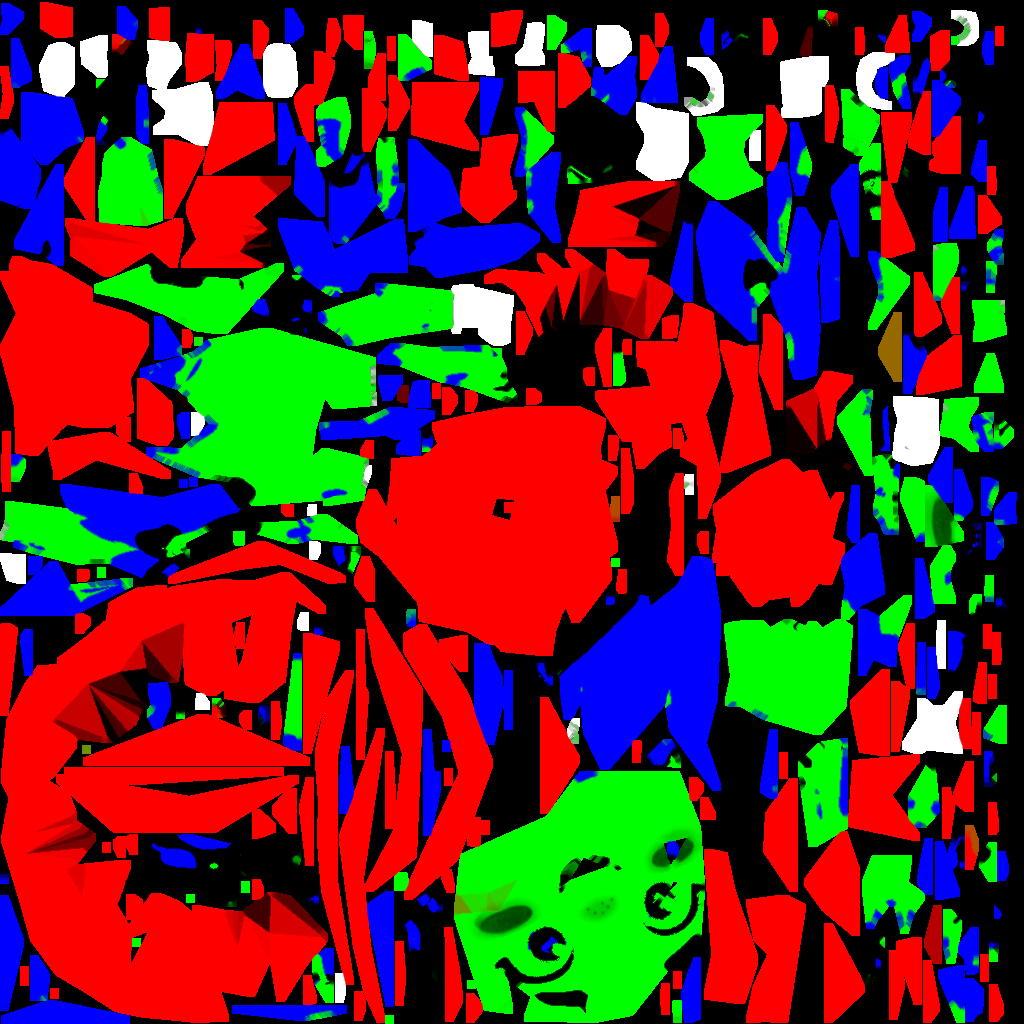
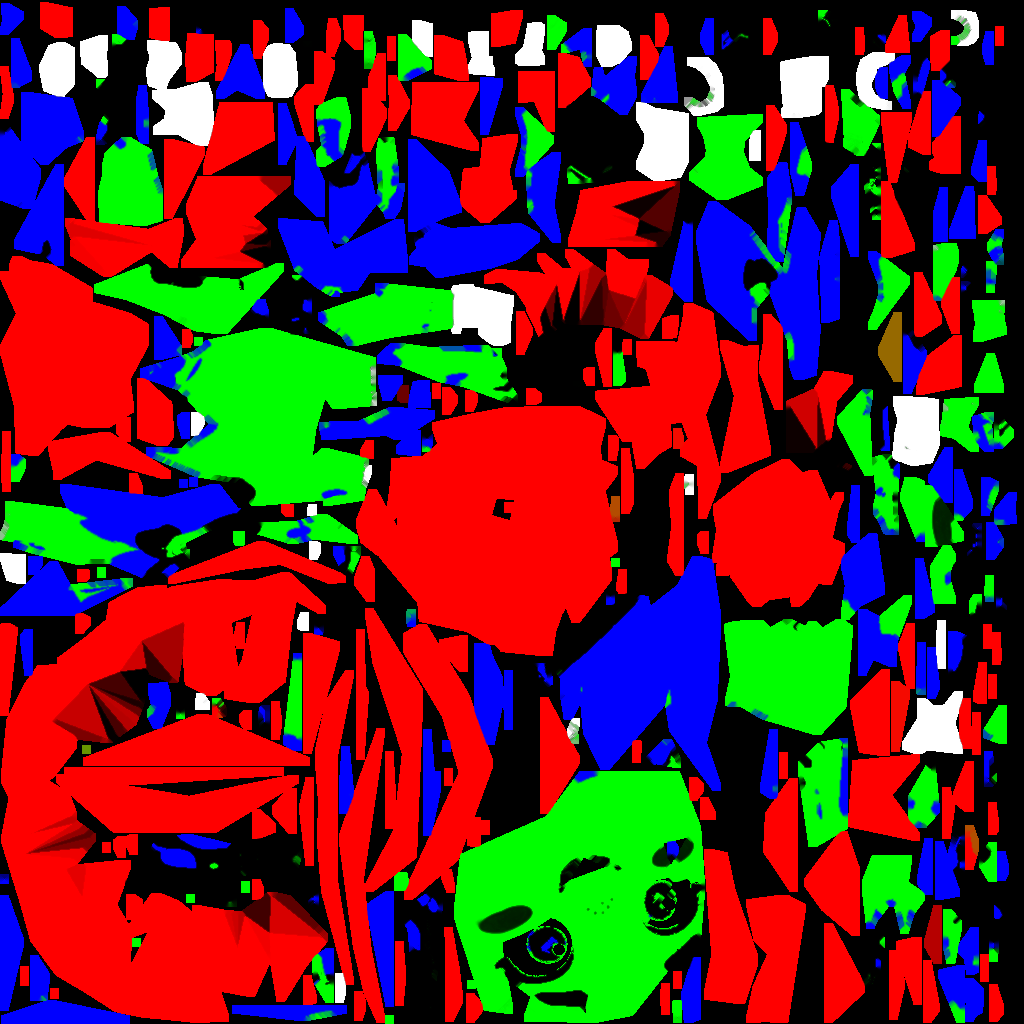
Keep the cap colour off the face, the eyes white and the blush pink
Islands that are mostly not cap get no cap weight (the outer cheeks looked like sideways gills).
The blush keeps four fifths of its pink at its heart, the tongue none of the skin's; white
patches walled by the eyes' outline stay white on body and lids.

Claude-Session: https://claude.ai/code/session_01R8JHqmvJq6hiKtCJ8pJGXt

diff --git a/Tools/figure/FigureMask.cs b/Tools/figure/FigureMask.cs
@@ -77,6 +77,11 @@ int[] label = Islands(island, out int islands);
 // The gills: whole islands above the brim that face down on average (a texel's own normal is
 // no guide: the forehead tucks under the cap as steeply as the gills curve).
 float[] islandNy = Means(label, islands, normalY), islandH = Means(label, islands, height);
+// An island is cap or not: the face's outer cheeks look like sideways gills (purple blush).
+float[] islandCap = Means(label, islands, capArea);
+for (int i = 0; i < N * N; i++)
+    if (island[i] && islandCap[label[i]] < 0.2f)
+        capArea[i] = 0f;
 
 // The masks: cap = the cap's whole area (FigureTint moves only its red share); skin = pale outside
 // the cap and the gill islands; leaves = green outside the cap; boots (A) = brown below the knee.
@@ -93,14 +98,18 @@ for (int i = 0; i < N * N; i++)
     mask[2][i] = cls[i].green * (1f - capArea[i]);
     mask[3][i] = Brown(body, i % N, i / N, N) * Smooth(Boots + 0.05f, Boots - 0.05f, height[i]);
 }
-FillShades(mask, island);
+bool[] whites = EyeWhites(body, N, island);
+for (int i = 0; i < N * N; i++)
+    if (whites[i])
+        mask[1][i] = 0f;
+FillShades(mask, island, whites);
 // Softened edges, but a blur only adds weight: a skin texel beside a brow keeps all of it (else the
 // painted light skin shows as a rim round every feature on dark skin); overlaps share to 1.
 for (int k = 0; k < 4; k++)
 {
     float[] soft = Blur(mask[k], island);
     for (int i = 0; i < N * N; i++)
-        soft[i] = MathF.Max(soft[i], mask[k][i]);
+        soft[i] = k == 1 && whites[i] ? 0f : MathF.Max(soft[i], mask[k][i]);
     mask[k] = soft;
 }
 for (int i = 0; i < N * N; i++)
@@ -116,9 +125,12 @@ for (int k = 0; k < 4; k++)
 // The lids: skin wherever pale (blush included), the rest (lashes, eyes, mouth) stays.
 int L = lid.Width;
 var lidSkin = new float[L * L];
+bool[] lidWhites = EyeWhites(lid, L, null);
 for (int i = 0; i < L * L; i++)
-    lidSkin[i] = Classes(lid, i % L, i / L, L).pale;
-lidSkin = Blur(lidSkin, null, L);
+    lidSkin[i] = lidWhites[i] ? 0f : Classes(lid, i % L, i / L, L).pale;
+float[] lidSoft = Blur(lidSkin, null, L);
+for (int i = 0; i < L * L; i++)
+    lidSkin[i] = lidWhites[i] ? 0f : MathF.Max(lidSoft[i], lidSkin[i]);
 
 // References: each region's mean colour where its mask is nearly whole (the cap's: its red).
 float[] capRef = Mean(body, Product(mask[0], cls.Select(c => c.red).ToArray()), N), skinRef = Mean(body, mask[1], N), leafRef = Mean(body, mask[2], N);
@@ -159,12 +171,13 @@ static (float red, float pale, float green) Classes(Png png, int x, int y, int s
     float s = max > 1e-4f ? (max - min) / max : 0f;
     float redness = Smooth(0.45f, 0.6f, s) * Smooth(0.15f, 0.25f, r) * Smooth(0.45f, 0.3f, MathF.Max(g, b) / MathF.Max(r, 1e-4f));
     float pale = Smooth(0.33f, 0.25f, s) * Smooth(0.5f, 0.65f, max);
-    // The blush: light pink, moved with the skin less the more pink (half at its heart), so it stays
-    // a blush on any colour and its soft rim fades into the skin without a light ring.
+    // The blush: light pink, moved with the skin less the more pink (a fifth at its heart), so it
+    // stays pink on any colour and its soft rim fades into the skin without a light ring. Not the
+    // tongue (pink towards blue) nor the bag's peach linen (orange 0.4).
     float gr = g / MathF.Max(r, 1e-4f);
-    float orange = (g - b) / MathF.Max(max - min, 1e-4f);   // 0 pink (the blush), 0.4 the bag's peach linen
-    pale = MathF.Max(pale, (1f - 0.5f * Smooth(0.25f, 0.5f, s)) * Smooth(0.6f, 0.75f, r) * Smooth(0.45f, 0.55f, gr)
-                           * Smooth(0.6f, 0.5f, s) * Smooth(0.36f, 0.3f, orange));
+    float orange = (g - b) / MathF.Max(max - min, 1e-4f);
+    pale = MathF.Max(pale, (1f - 0.8f * Smooth(0.38f, 0.48f, s)) * Smooth(0.6f, 0.75f, r) * Smooth(0.45f, 0.55f, gr)
+                           * Smooth(0.6f, 0.5f, s) * Smooth(0.36f, 0.3f, orange) * Smooth(-0.04f, 0f, orange));
     float greenness = g > r * 1.15f && g > b * 1.2f ? Smooth(0.15f, 0.3f, s) : 0f;
     return (redness, pale, greenness);
 }
@@ -183,7 +196,7 @@ static float Brown(Png png, int x, int y, int size)
 // Shaded seams (greyish texels between skin and leaves, under the chin) belong to no region and kept
 // their colour: the rest of their weight goes to the nearest skin or leaf texel within 8 texels.
 // Only unsaturated ones: the tint keeps dark texels dark, so lines and pupils stay black.
-void FillShades(float[][] m, bool[] inside)
+void FillShades(float[][] m, bool[] inside, bool[] keep)
 {
     var near = new int[N * N];
     Array.Fill(near, -1);
@@ -203,9 +216,61 @@ void FillShades(float[][] m, bool[] inside)
     for (int i = 0; i < N * N; i++)
     {
         float rest = 1f - m[0][i] - m[1][i] - m[2][i] - m[3][i];
-        if (near[i] > 0 && rest > 0f && m[0][i] < 0.5f && m[3][i] < 0.5f && Saturation(body, i % N, i / N, N) < 0.25f)
+        if (near[i] > 0 && rest > 0f && !keep[i] && m[0][i] < 0.5f && m[3][i] < 0.5f && Saturation(body, i % N, i / N, N) < 0.25f)
             m[near[i]][i] += rest;
     }
+}
+
+// The eyes' whites: white patches (size² grid) walled in by the eyes' dark outline, unlike light
+// skin, which borders skin (cut by a UV seam: only the island's side counts); white on any skin.
+static bool[] EyeWhites(Png png, int size, bool[] inside)
+{
+    var white = new bool[size * size];
+    var dark = new bool[size * size];
+    for (int i = 0; i < size * size; i++)
+    {
+        int k = ((i / size) * png.Height / size * png.Width + (i % size) * png.Width / size) * png.Channels;
+        float r = png.Pixels[k] / 255f, g = png.Pixels[k + 1] / 255f, b = png.Pixels[k + 2] / 255f;
+        float max = MathF.Max(r, MathF.Max(g, b)), min = MathF.Min(r, MathF.Min(g, b));
+        white[i] = max > 0.85f && (max - min) / max < 0.1f;
+        dark[i] = max < 0.3f;
+    }
+    var seen = new bool[size * size];
+    var result = new bool[size * size];
+    var part = new List<int>();
+    for (int start = 0; start < size * size; start++)
+    {
+        if (!white[start] || seen[start])
+            continue;
+        part.Clear(); part.Add(start); seen[start] = true;
+        int border = 0, darkBorder = 0;
+        for (int n = 0; n < part.Count; n++)
+        {
+            int i = part[n];
+            foreach (int j in (ReadOnlySpan<int>)[i - 1, i + 1, i - size, i + size])
+            {
+                if (j < 0 || j >= size * size || Math.Abs(j % size - i % size) > 1)
+                    continue;
+                if (inside != null && !inside[j])
+                    continue;
+                if (white[j])
+                {
+                    if (!seen[j]) { seen[j] = true; part.Add(j); }
+                }
+                else
+                {
+                    border++;
+                    if (dark[j]) darkBorder++;
+                }
+            }
+        }
+        if (part.Count < size * size / 300 && darkBorder > 0.25f * border)
+        {
+            foreach (int i in part)
+                result[i] = true;
+        }
+    }
+    return result;
 }
 
 static float Saturation(Png png, int x, int y, int size)
